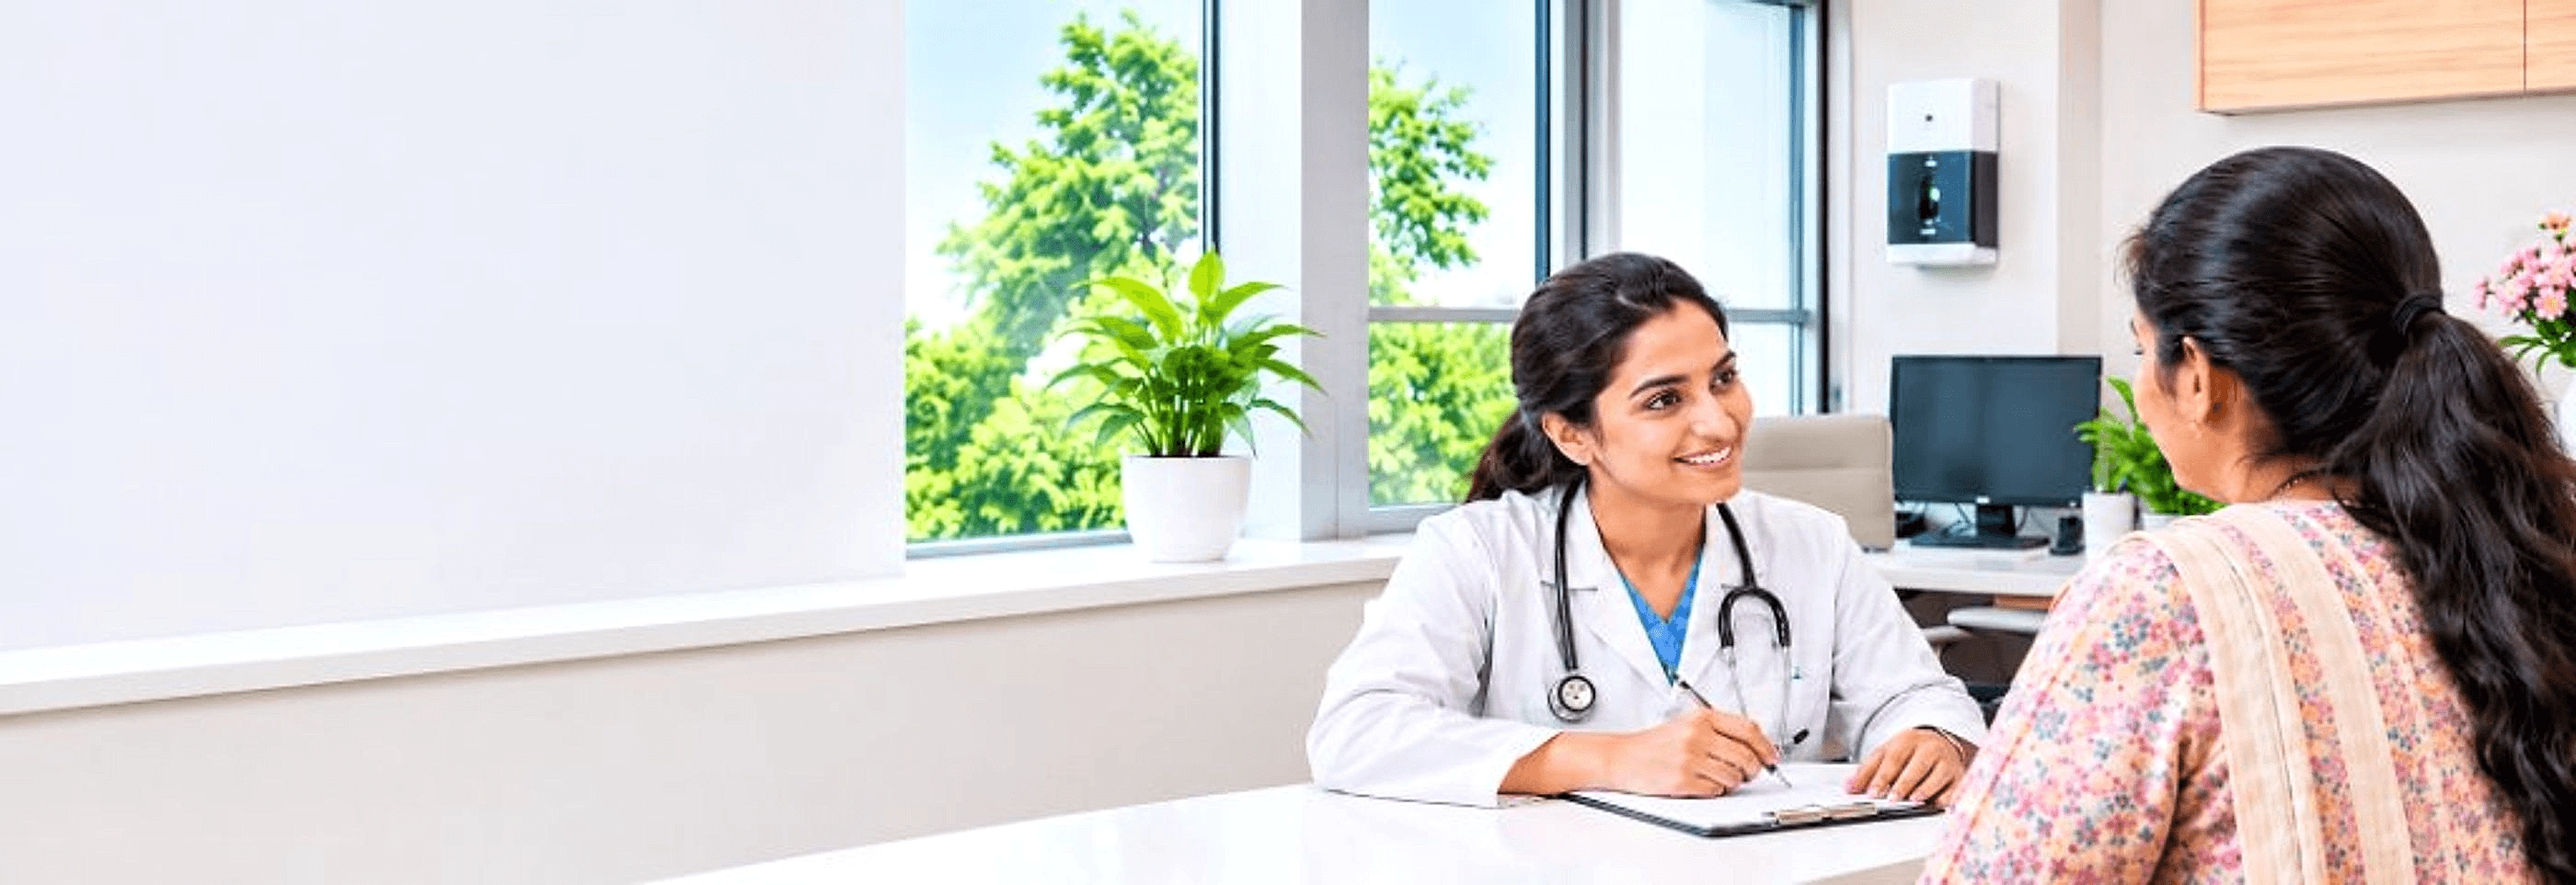
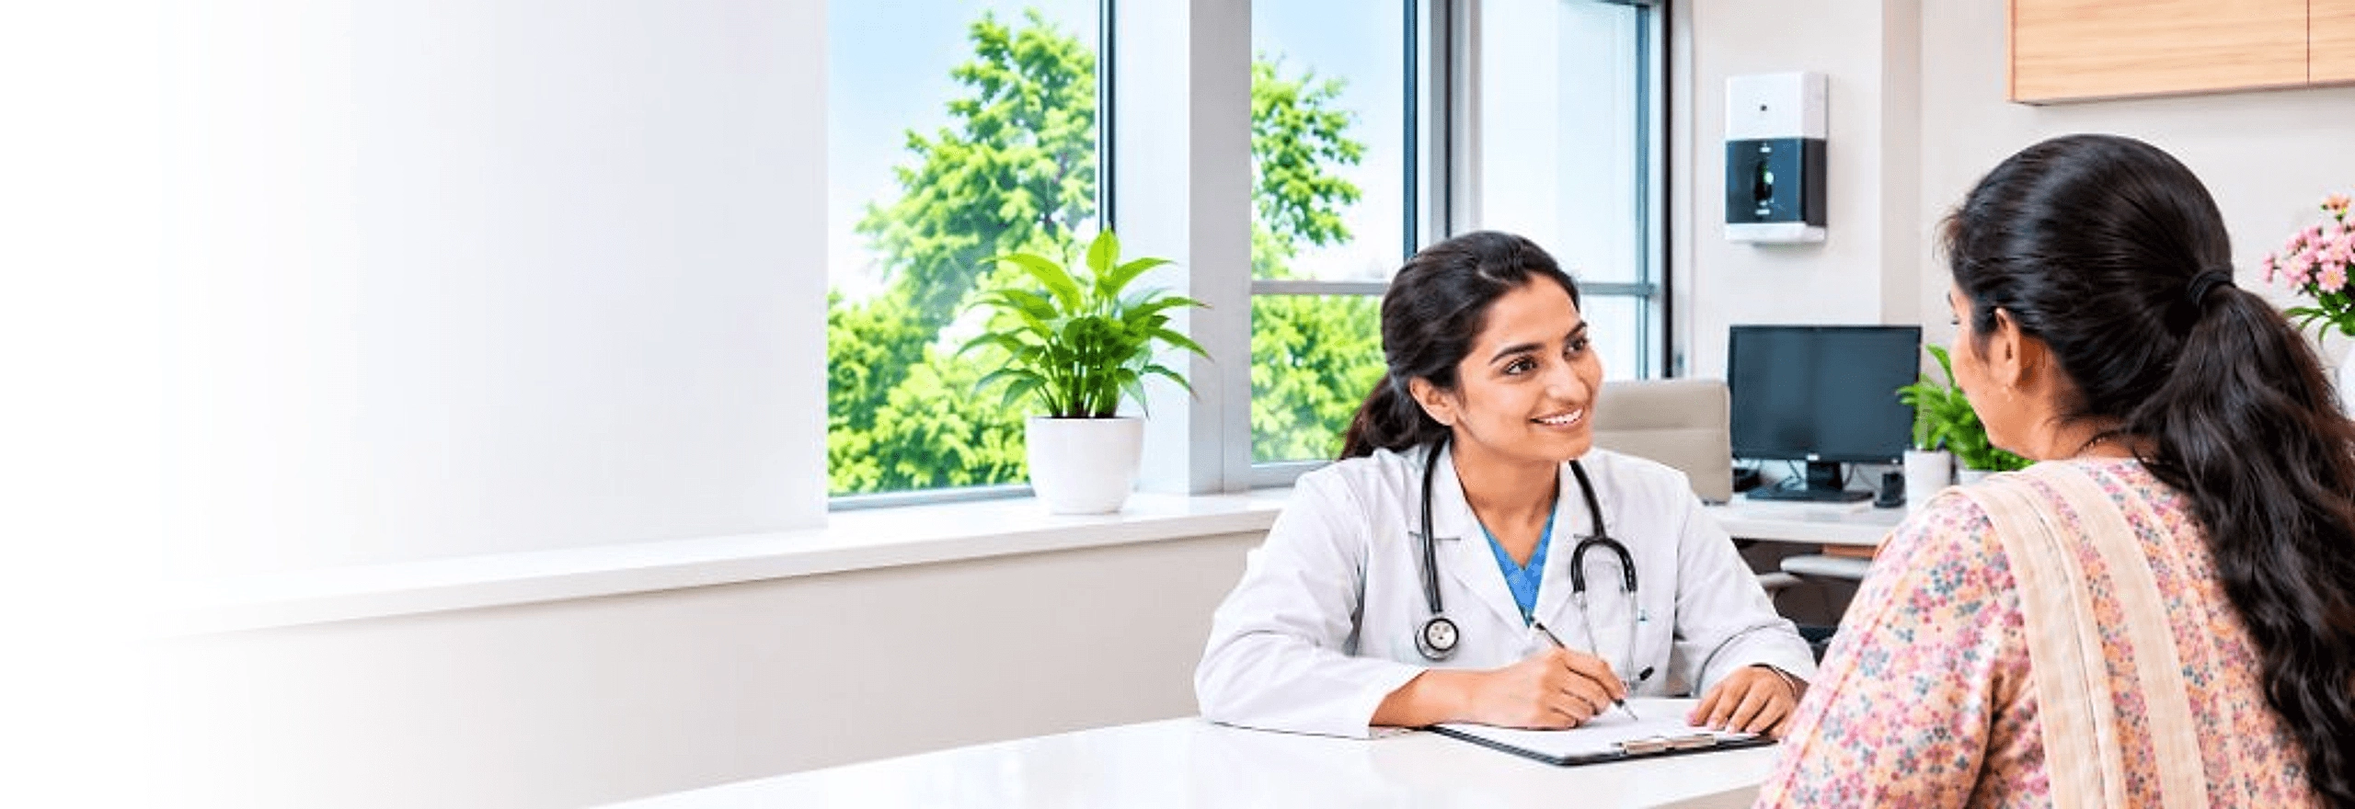
Smoothly fade left side of hero background image directly into pure white (RGB 255,255,255) for seamless zero-seam transition

diff --git a/src/pages/Home.jsx b/src/pages/Home.jsx
@@ -36,8 +36,6 @@ export default function Home() {
               fetchpriority="high"
             />
           </picture>
-          {/* Subtle gradient to seamlessly melt the image edge into the clean white text area on ultra-wide screens */}
-          <div className="absolute inset-y-0 left-0 w-2/5 bg-gradient-to-r from-white via-white/80 to-transparent pointer-events-none" />
         </div>
 
         {/* Mobile-Only Purple Doctor Illustration: Zoomed slightly out, centered, and borderless */}
